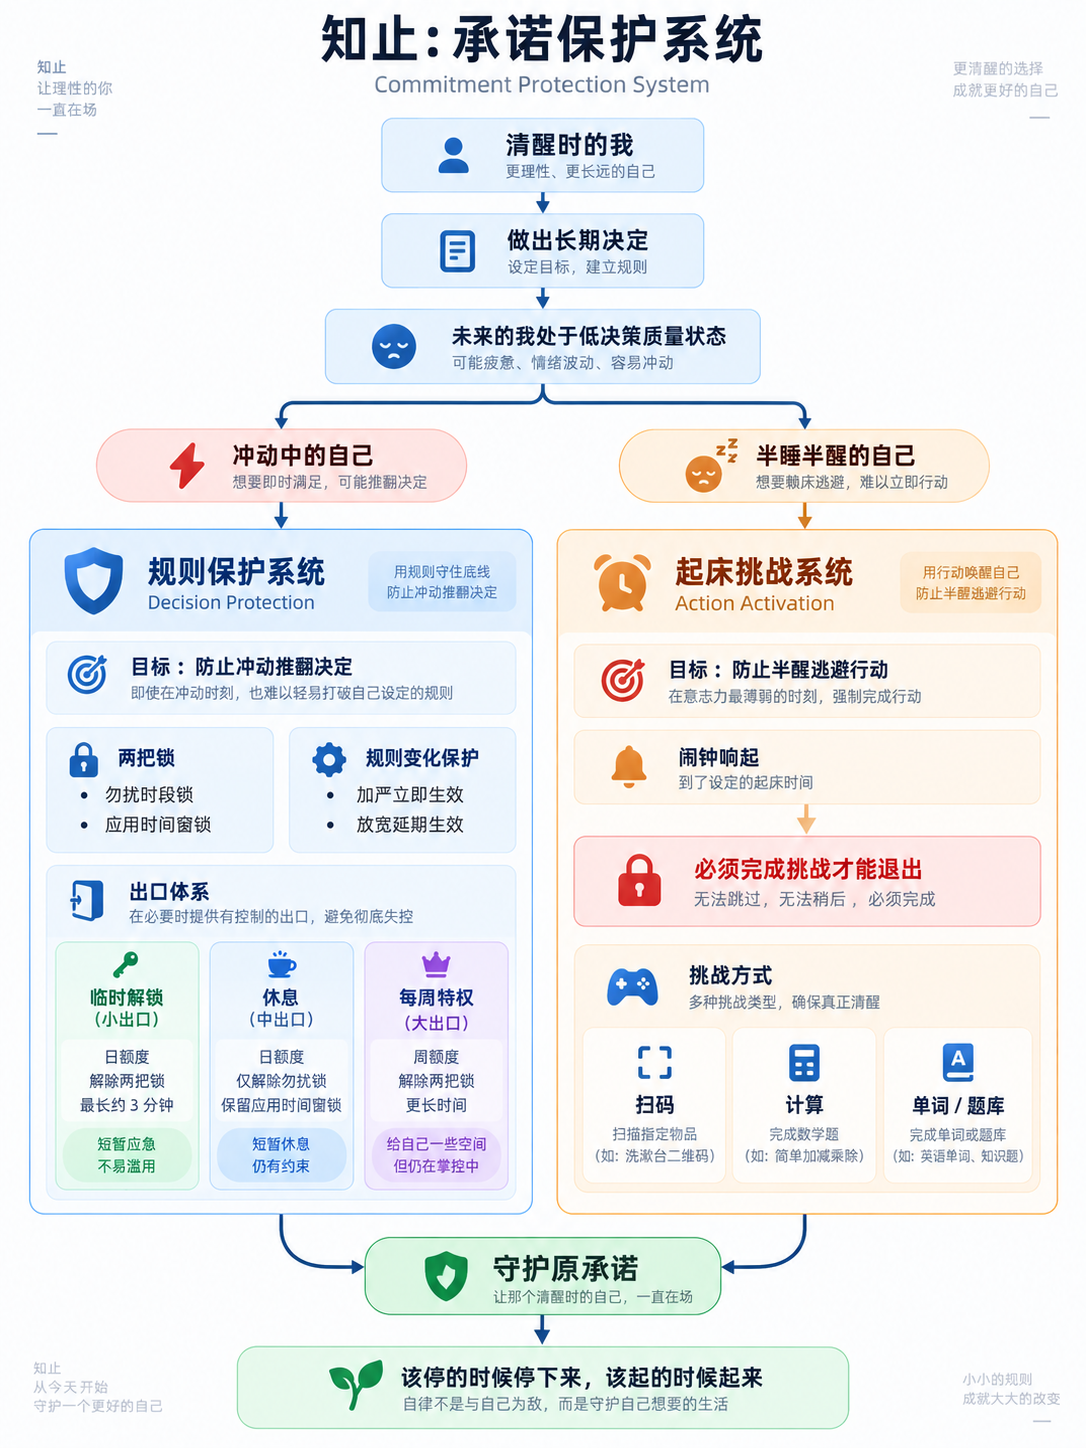
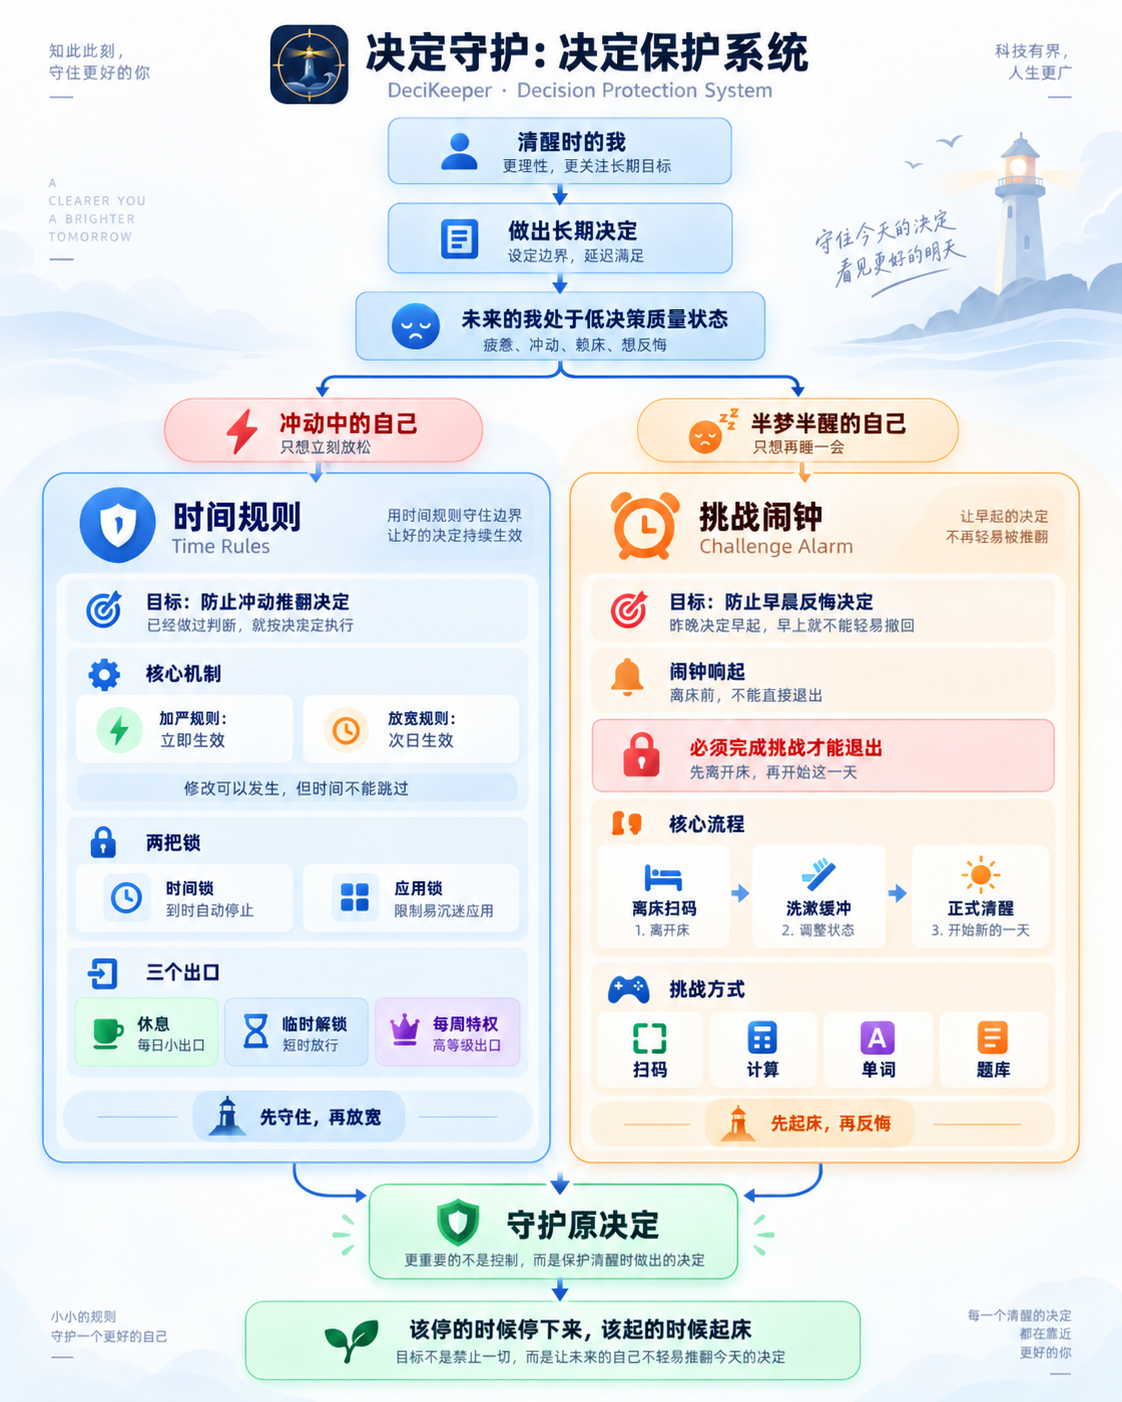
docs(community): 增加QQ交流反馈渠道并加固日志隐私安全红线

diff --git a/app/src/main/java/com/decikeeper/app/ui/AboutActivity.kt b/app/src/main/java/com/decikeeper/app/ui/AboutActivity.kt
@@ -42,6 +42,19 @@ class AboutActivity : AppCompatActivity() {
         } catch (_: Exception) { "?" }
         findViewById<TextView>(R.id.tv_about_version_value).text = "v$versionName"
         findViewById<TextView>(R.id.tv_about_app_version).text = "决定守护 v$versionName"
+        setupQqGroupEntry()
+    }
+
+    private fun setupQqGroupEntry() {
+        findViewById<TextView>(R.id.tv_about_qq_group)?.apply {
+            isClickable = true
+            isFocusable = true
+            setOnClickListener {
+                if (copyToClipboard("QQ Group", "980203768")) {
+                    Toast.makeText(this@AboutActivity, "QQ 群号已复制，可在 QQ 中搜索加入", Toast.LENGTH_SHORT).show()
+                }
+            }
+        }
     }
 
     private fun attrColor(attr: Int): Int {
@@ -99,13 +112,19 @@ class AboutActivity : AppCompatActivity() {
         Toast.makeText(this, "链接已复制，可粘贴到浏览器打开", Toast.LENGTH_LONG).show()
     }
 
-    private fun copyClozeSourceUrl() {
-        try {
+    private fun copyToClipboard(label: String, text: String): Boolean {
+        return try {
             val cm = getSystemService(Context.CLIPBOARD_SERVICE) as ClipboardManager
-            cm.setPrimaryClip(ClipData.newPlainText("Cloze Source", clozeSourceUrl))
+            cm.setPrimaryClip(ClipData.newPlainText(label, text))
+            true
         } catch (e: Exception) {
-            Log.e("AboutActivity", "复制链接失败", e)
+            Log.e("AboutActivity", "复制失败: $label", e)
+            false
         }
+    }
+
+    private fun copyClozeSourceUrl() {
+        copyToClipboard("Cloze Source", clozeSourceUrl)
     }
 
     private fun buildEntryView(doc: LegalDocument, density: Float): View = TextView(this).apply {

diff --git a/app/src/test/java/com/decikeeper/app/AboutPrivacySurfaceContractTest.kt b/app/src/test/java/com/decikeeper/app/AboutPrivacySurfaceContractTest.kt
@@ -31,6 +31,8 @@ class AboutPrivacySurfaceContractTest {
         assertFalse("About 页面不得将应用狭隘定义为闹钟应用", layout.contains("闹钟应用"))
         assertTrue(activity.contains("内容来源"))
         assertTrue(activity.contains("KaoYan-English"))
+        assertTrue("About 页面应用信息卡片必须展示 QQ 反馈群", layout.contains("交流反馈群") && layout.contains("980203768"))
+        assertTrue("About 页面必须具备 QQ 群点击复制逻辑", activity.contains("setupQqGroupEntry") && activity.contains("copyToClipboard"))
         assertTrue(legalActivity.contains("Markwon.builder"))
         assertTrue(legalActivity.contains(".setMarkdown"))
         assertFalse("About 页面不得展示旧的技术合规入口", layout.contains("第三方 SDK") || activity.contains("第三方 SDK"))

diff --git a/.github/SECURITY.md b/.github/SECURITY.md
@@ -4,38 +4,37 @@
 
 我们只修复最新版本中的安全问题。请在报告前先升级到最新版确认问题仍存在。
 
-## 漏洞上报
+## 漏洞与日志安全
 
-为了保护所有用户免受潜在安全威胁影响，**请勿在公开的 GitHub Issues 或任何公开讨论区中提交安全漏洞或披露 POC 利用代码**。
+为了保护所有用户免受潜在安全威胁与个人隐私泄露影响：
+1. **严禁在公开的 GitHub/Gitee Issues 或任何公开讨论区中提交安全漏洞细节，严禁公开贴出利用代码（POC）**。
+2. **严禁在公开渠道贴出或上传任何运行日志（Log）**：决定守护的运行日志包含用户手机内安装的应用包名、前台使用规律与时间戳等敏感隐私信息，公开日志将直接导致个人隐私外泄。
 
-### 推荐渠道
+### 私密联系途径
 
-1. **首选：GitHub 私密漏洞报告 (Private Vulnerability Reporting)**
-   - 访问本仓库的 [Security](../../security) 页面；
-   - 点击 **Report a vulnerability**（报告安全漏洞）；
-   - 填写漏洞类型、影响版本、详细复现步骤与影响评估。此通报仅仓库维护者可见，在修复前全程保密。
+发现安全问题、绕过漏洞或需要提供排查日志时，请仅通过以下私密途径直接联系开发者：
 
-2. **备选：私密联系邮箱**
-   - 若无法通过 GitHub 提交，可将漏洞详情加密或直接发送至维护邮箱：`cyz200303@163.com`；
-   - 邮件标题请注明：`[DeciKeeper Security Report]`。
+1. **邮件直接联系**：
+   - 邮箱地址：**`cyz200303@163.com`**
+   - 邮件标题请注明：`[DeciKeeper 安全问题 / 诊断日志]`
+   - 请描述受影响版本、复现步骤与影响范围，如有日志请作为邮件附件发送。
+
+2. **QQ 群直接私聊**：
+   - 官方交流 QQ 群：**`980203768`**
+   - 进群后直接私聊群主 / 开发者进行私密沟通与日志取证。
+
+收到报告后我们会尽快确认并修复；修复后的版本会在更新日志中说明。
 
 ### 响应与处置流程
 
-- 我们会在收到报告后的 48 小时内进行确认并给出初步评估；
+- 我们会在收到报告后尽快确认并给出初步评估；
 - 修复确认并在稳定版本发布后，我们会在 CHANGELOG 中发布说明并对报告者致谢（如报告者同意）。
 
-## 权限说明（为什么需要这些权限）
+## 权限与数据合规
 
-| 权限 | 用途 | 拒绝的后果 |
-|------|------|-----------|
-| 无障碍服务 | 识别前台应用、拦截黑名单/防卸载弹窗 | 核心拦截全部失效 |
-| 悬浮窗 | 显示锁屏覆盖层 | 锁屏无法显示 |
-| 使用情况访问 | 前台应用检测（Vivo 等 ROM 必需） | 拦截/重锁可能延迟 |
-| 通知 | Android 13+ 引导恢复无障碍的通知 | 无障碍断开时无法提醒 |
-| 开机自启 | 重启后恢复保护 | 重启后保护失效 |
-| 电池优化白名单 | 防止后台被杀 | 定时任务/闹钟可能不触发 |
-| 震动 | 闹钟挑战震动 | 闹钟无震动 |
-| 相机（扫码挑战） | 扫描二维码解锁闹钟 | 扫码挑战不可用 |
+决定守护是纯单机、无网络权限的自律软件。各项权限与系统配置的官方定性、最小必要原则及排查指南，遵循单一真理源，请直接查阅：
+- **项目权威文档**：[权限与数据边界说明 (docs/user/permissions.md)](../docs/user/permissions.md)
+- **应用内官方说明**：打开应用进入「设置 → 关于我们 → 隐私说明及权限说明」
 
 ## 数据与隐私边界
 

diff --git a/docs/archive/plans/task-feedback-paradigm.md b/docs/archive/plans/task-feedback-paradigm.md
@@ -3,9 +3,9 @@
 ## 1. 目标与依据 (Goal & Authority)
 - **需求依据**：用户已确认联系邮箱为 `cyz200303@163.com`，官方网站为 GitHub (`https://github.com/Iwillbecomestrong/DeciKeeper`) 与 Gitee (`https://gitee.com/my_room_welcome_you/decikeeper`)，并在 SPEC [docs/work/task-feedback-paradigm.md](docs/work/task-feedback-paradigm.md) 中确认推行「4 要素问题反馈范式」与「三级渠道体系」。
 - **实现目标**：
-  1. 修复代码 [LogExporter.kt](file:///g:/IronWIl0329/IronWill-OpenSource/app/src/main/java/com/decikeeper/app/data/LogExporter.kt) 中的假邮箱占位符，统一为真实反馈邮箱 `cyz200303@163.com`。
-  2. 在 [contact_and_complaint.txt](file:///g:/IronWIl0329/IronWill-OpenSource/app/src/main/res/raw/contact_and_complaint.txt) 与合规文档中规范常规联系、官方网站、投诉渠道、以及推荐的 GitHub/Gitee Issues 公开渠道。
-  3. 建立 4 要素反馈范式（运行环境、应用版本、复现步骤与现象、取证日志），并在 [HelpActivity.kt](file:///g:/IronWIl0329/IronWill-OpenSource/app/src/main/java/com/decikeeper/app/ui/HelpActivity.kt) 与 [docs/使用手册.md](file:///g:/IronWIl0329/IronWill-OpenSource/docs/%E4%BD%BF%E7%94%A8%E6%89%8B%E5%86%8C.md) 中同步。
+  1. 修复代码 [LogExporter.kt](../../../app/src/main/java/com/decikeeper/app/data/LogExporter.kt) 中的假邮箱占位符，统一为真实反馈邮箱 `cyz200303@163.com`。
+  2. 在 [contact_and_complaint.txt](../../../app/src/main/res/raw/contact_and_complaint.txt) 与合规文档中规范常规联系、官方网站、投诉渠道、以及推荐的 GitHub/Gitee Issues 公开渠道。
+  3. 建立 4 要素反馈范式（运行环境、应用版本、复现步骤与现象、取证日志），并在 [HelpActivity.kt](../../../app/src/main/java/com/decikeeper/app/ui/HelpActivity.kt) 与 [docs/使用手册.md](../../使用手册.md) 中同步。
   4. 保持 `LegalEntryRegistryTest` 和既有单测 100% 绿色通过，确保法务契约不被破坏。
 
 ---

diff --git a/docs/plans/2026-09-11-alarm-whitescreen-handover.md b/docs/plans/2026-09-11-alarm-whitescreen-handover.md
@@ -25,8 +25,7 @@
 ### 构建
 
 ```bash
-# worktree 里没有 local.properties，需从主仓库复制
-cp ../IronWill-OpenSource/local.properties .
+# 确保已配置好 Android SDK 环境（或在 local.properties 中指定 sdk.dir）
 ./gradlew.bat --console=plain :app:testDebugUnitTest :app:assembleDebug
 # 基线：1186 例 / 0 失败 / 11 跳过
 ```
@@ -51,7 +50,7 @@ adb -s $D shell dumpsys package com.decikeeper.app | grep lastUpdateTime   # 核
 `adb logcat -f <path>` 在本机被沙箱拒绝（报 `Read-only file system`）。必须用管道：
 
 ```bash
-adb -s $D logcat -v threadtime 2>&1 | ForEach-Object { $_ | Out-File -FilePath 'G:\IronWIl0329\.alarm-verify3.log' -Encoding utf8 -Append }
+adb -s $D logcat -v threadtime 2>&1 | ForEach-Object { $_ | Out-File -FilePath './alarm-verify.log' -Encoding utf8 -Append }
 ```
 
 **不要 `adb logcat -c`**——我第一次清了缓冲，把扫码成功那几秒的关键证据冲掉了。

diff --git a/docs/plans/2026-09-11-session-master-handover.md b/docs/plans/2026-09-11-session-master-handover.md
@@ -160,8 +160,7 @@ About 页实际展示的入口与 `SPEC.md` §8.1 是否完全一致——只确
 
 ## 4. 关键环境事实与踩过的坑
 
-1. **构建**：worktree 里没有 `local.properties`，需从主仓库复制：
-   `cp ../IronWill-OpenSource/local.properties .`，然后 `./gradlew.bat --console=plain :app:testDebugUnitTest :app:assembleDebug`
+1. **构建**：独立工作目录需确保配置好 Android SDK 环境（如配置 `local.properties` 中的 `sdk.dir`），然后执行 `./gradlew.bat --console=plain :app:testDebugUnitTest :app:assembleDebug`
    （当前基线 **1201 例 / 0 失败 / 11 跳过**）
 2. **无线 adb 安装**：`adb install` 走无线会**永久挂起且装不上**，改用 `adb push` + `pm install -r -d`；
    **必须核对 `lastUpdateTime`**，否则不知道装没装上

diff --git a/.github/ISSUE_TEMPLATE/bug_report.md b/.github/ISSUE_TEMPLATE/bug_report.md
@@ -26,6 +26,6 @@ assignees: ''
 ## 🎯 预期行为
 应该发生什么正常表现？
 
-## 📋 规则配置截图或导出（可选但强烈建议）
-- 涉及的勿扰时段设置、黑名单配置等。
-- 如有导出日志，请附上关键片段（注意隐去个人隐私信息）。
+## 📋 规则配置截图（可选）
+- 涉及的勿扰时段设置、黑名单配置截图（请注意打码遮挡私密应用）。
+- ⚠ **隐私安全红线**：**请勿在公开 Issue 中贴出或上传运行日志**！日志中包含你手机安装的应用包名、前台切换时间戳等敏感隐私。如排查确需日志，请通过邮件私下发送至 `cyz200303@163.com` 或 QQ 群（`980203768`）私聊群主。

diff --git a/README.md b/README.md
@@ -233,6 +233,15 @@ adb install -r -d app/build/outputs/apk/debug/app-debug.apk
 - 第三方组件许可证见 [docs/THIRD_PARTY_NOTICES.md](docs/THIRD_PARTY_NOTICES.md)。
 - 请不要向仓库提交未经授权的商业题库、出版物解析或付费翻译内容。
 
+
+---
+
+## 交流与反馈
+
+- **交流反馈 QQ 群**：**`980203768`**（日常交流、自律心得、快速排查与内测发布）
+- **开发者邮箱**：**`cyz200303@163.com`**
+- **问题反馈**：欢迎通过 GitHub Issues 提交问题（⚠ **请勿在公开 Issue 中包含手机运行日志或漏洞利用代码**，隐私日志请通过邮件或 QQ 群私信发送）
+
 ---
 
 ## 贡献

diff --git a/docs/archive/superpowers/handoffs/2026-09-10-alarm-direct-boot-fix-spec.md b/docs/archive/superpowers/handoffs/2026-09-10-alarm-direct-boot-fix-spec.md
@@ -9,7 +9,7 @@
 1. `LOCKED_BOOT_COMPLETED` 仍保留现有 active alarm recovery：重启前已经在响的闹钟继续恢复。
 2. 普通 `BOOT_COMPLETED`、`USER_PRESENT`、App 内设置闹钟的正常行为不改变。
 3. 挑战题目、铃声选择、保护策略、统计业务不复制到 DPS，也不在 Direct Boot 重新实现。
-4. 不改原始 `G:\IronWIl0329\IronWill-OpenSource` dirty `dev`，不提交 Git，不卸载 App 或清除用户数据。
+4. 不改原始主仓库 dirty `dev`，不提交 Git，不卸载 App 或清除用户数据。
 
 ## 存储契约
 

diff --git a/docs/archive/plans/2026-09-05-ui-unification-handover.md b/docs/archive/plans/2026-09-05-ui-unification-handover.md
@@ -1,7 +1,7 @@
 # 决定守护 (DeciKeeper) UI 规范统一与交互收敛交接文档
 
 > **文档性质**：跨会话 / 跨智能体协作与架构交接文档  
-> **归属工程**：`g:\IronWIl0329\IronWill-OpenSource` (决定守护 / DeciKeeper)  
+> **归属工程**：决定守护 / DeciKeeper (IronWill-OpenSource)  
 > **建立时间**：2026-09-05  
 > **核心原则**：**一切以真实代码为准，严禁无中生有；统一散装视觉，绝不颠覆既有业务结构**
 

diff --git a/docs/archive/superpowers/handoffs/2026-09-10-alarm-direct-boot-implementation-handoff.md b/docs/archive/superpowers/handoffs/2026-09-10-alarm-direct-boot-implementation-handoff.md
@@ -2,10 +2,10 @@
 
 ## 当前工作区
 
-- Worktree: `C:\Users\23248\.codex\worktrees\alarm-direct-boot`
+- Worktree: `<worktree-root>/alarm-direct-boot`
 - Branch: `codex/alarm-direct-boot`
 - Base: committed `dev` snapshot `975c4ba`
-- 原始 `G:\IronWIl0329\IronWill-OpenSource` 的 dirty `dev` 不得修改、清理或合并。
+- 原始主仓库工作区的 dirty `dev` 不得修改、清理或合并。
 
 ## 已有实现
 

diff --git a/docs/plans/2026-09-11-doc-unification-handover.md b/docs/plans/2026-09-11-doc-unification-handover.md
@@ -39,7 +39,7 @@
 ### 构建与测试
 
 ```bash
-cp ../IronWill-OpenSource/local.properties .   # worktree 里没有，需复制
+# 确保已配置好 Android SDK 环境（或在 local.properties 中指定 sdk.dir）
 ./gradlew.bat --console=plain :app:testDebugUnitTest :app:assembleDebug
 # 当前基线：1201 例 / 0 失败 / 11 跳过
 ```
